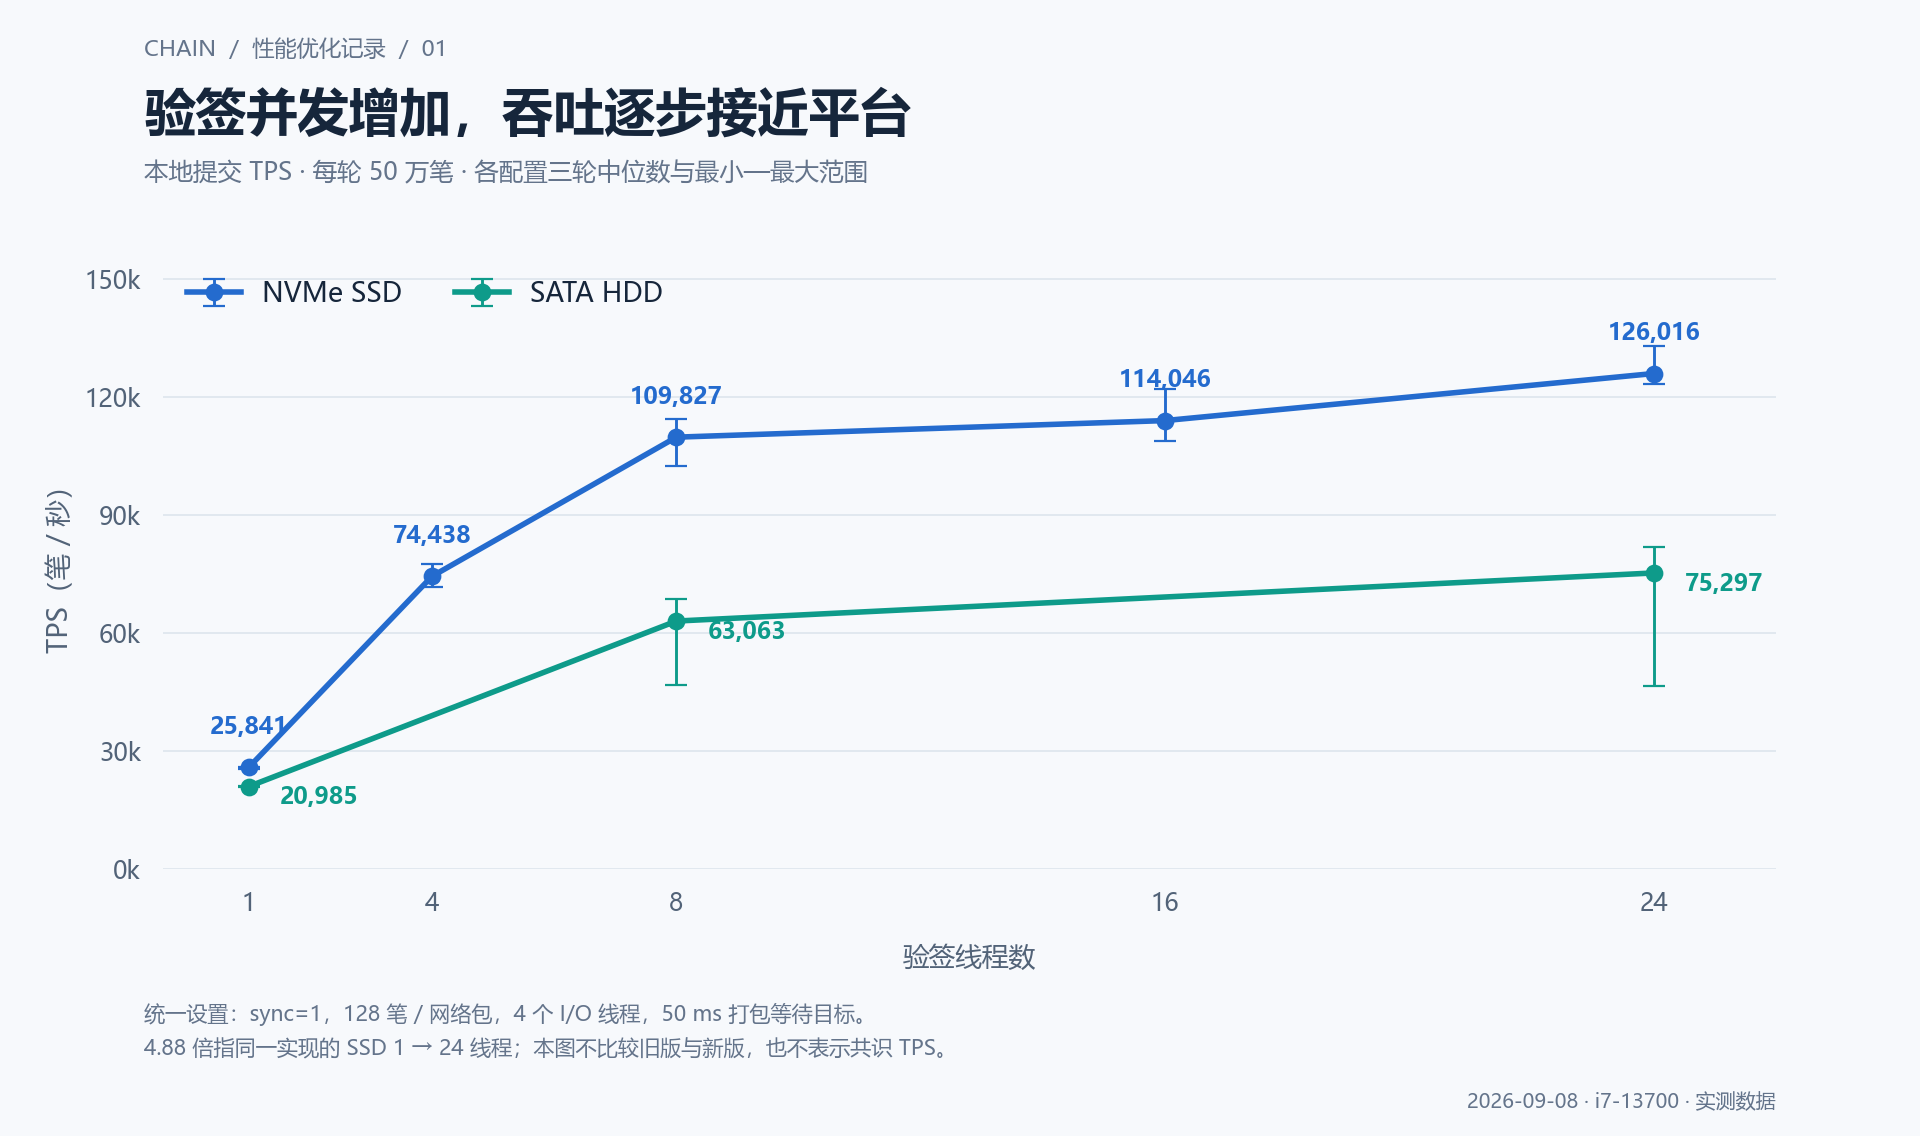
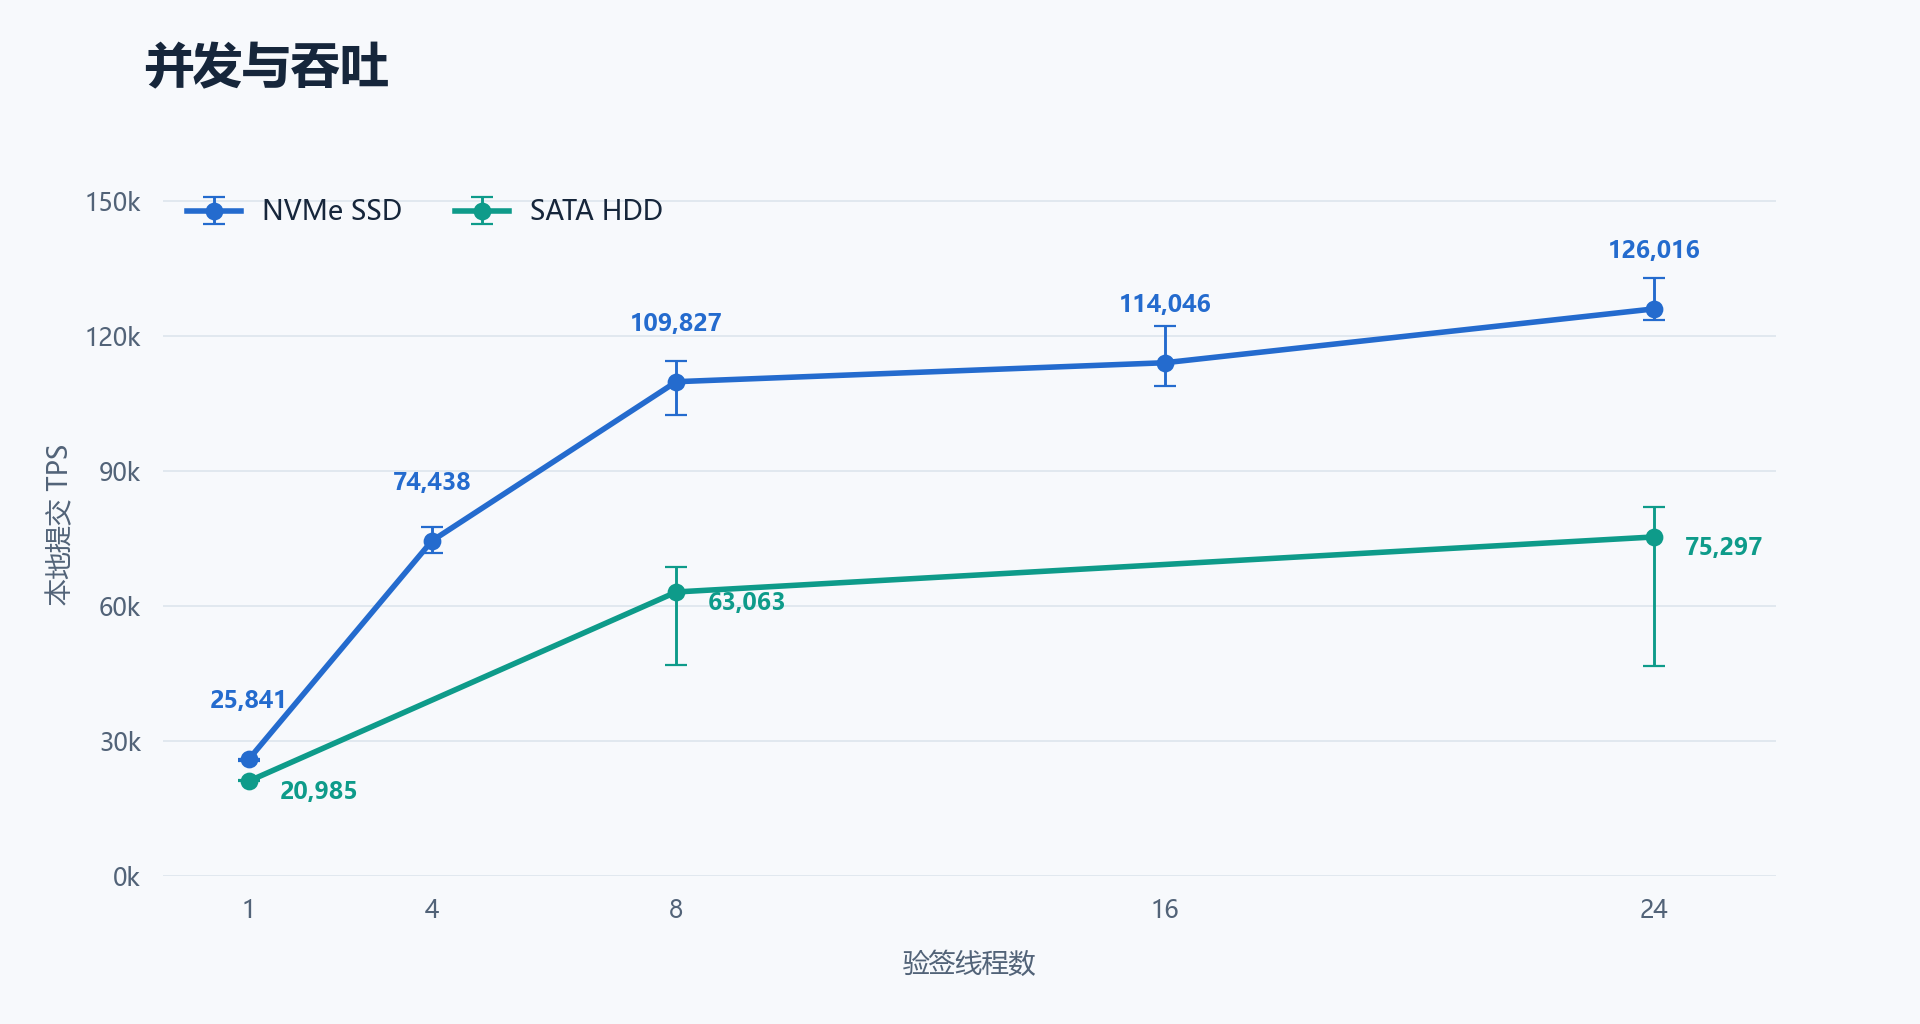
2026-09-08 精简性能图表文字

diff --git a/OPTIMIZATION_RECORD_2026-09-08.md b/OPTIMIZATION_RECORD_2026-09-08.md
@@ -22,6 +22,8 @@
 
 ![不同验签线程数下 SSD 与 HDD 的本地提交 TPS 中位数和三轮范围](docs/figures/optimization-2026-09-08/01-tps-scaling.png)
 
+图中点为三轮中位数，误差线为最小至最大值。
+
 SSD 从 1 个验签线程的 **25,841 TPS** 提升到 24 线程的 **126,016 TPS**，约 **4.88 倍**。这是同一修复后实现的线程配置对照，**不是旧版到新版的倍数**。
 
 8 线程已达到 24 线程吞吐的约 87%，因此默认保留 8 线程。HDD 在 8 线程下为 63,063 TPS，三轮波动也更明显；数据库所在的盘比代码所在的盘更影响存储性能。
@@ -38,6 +40,8 @@ SSD 从 1 个验签线程的 **25,841 TPS** 提升到 24 线程的 **126,016 TPS
 ## 3 现在卡在哪里
 
 ![纯验签微测与 SSD 整节点的平均 CPU 占用核数](docs/figures/optimization-2026-09-08/03-cpu-utilization.png)
+
+平均占用核数 = 进程 CPU 时间 / 测试墙钟时间；纯验签不写盘，整节点使用 SSD，虚线表示本机 24 个逻辑核的容量。
 
 **纯验签主要消耗 CPU；整节点的瓶颈还包括提交串行段、查重和持久化。** 24 线程时，整节点平均只使用约 10.89 个逻辑核，约占本机的 45.4%，不能说 CPU 已经跑满。
 
